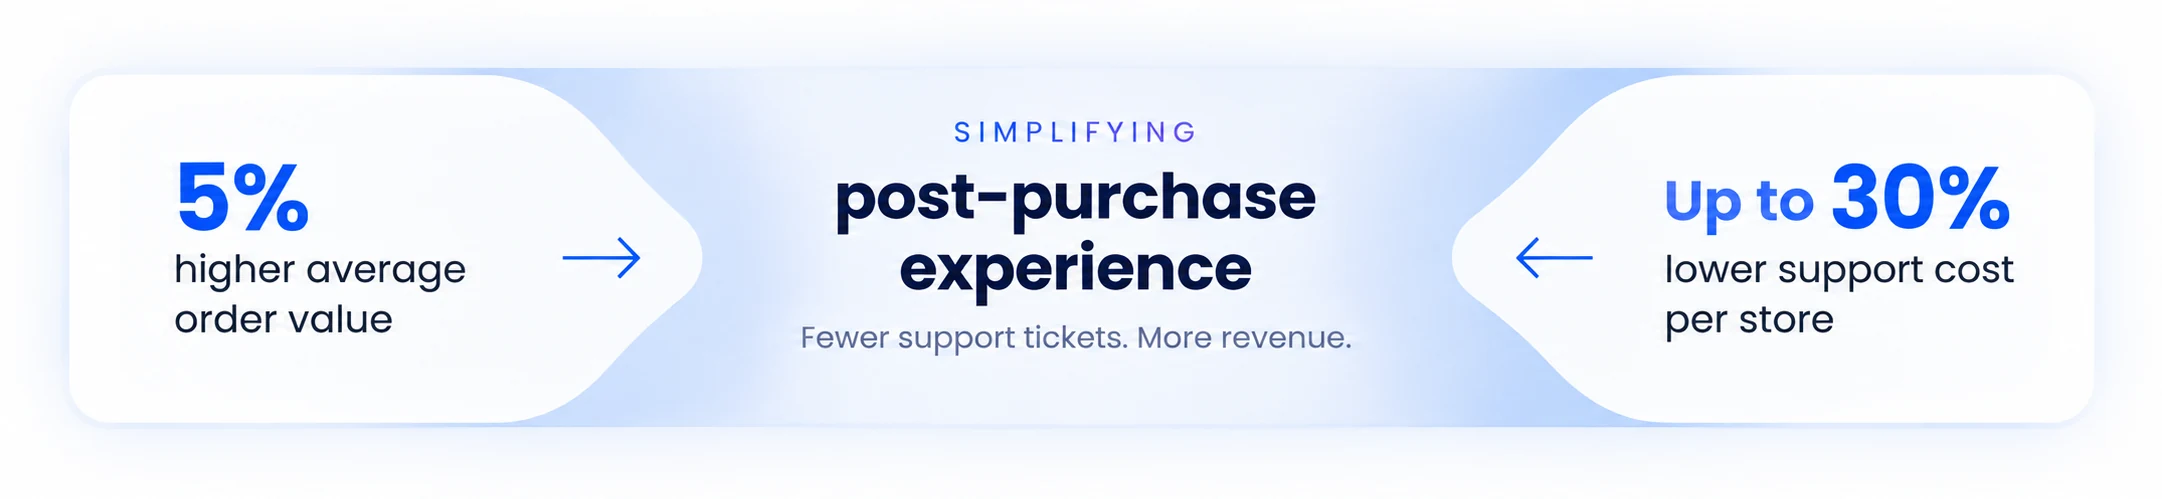
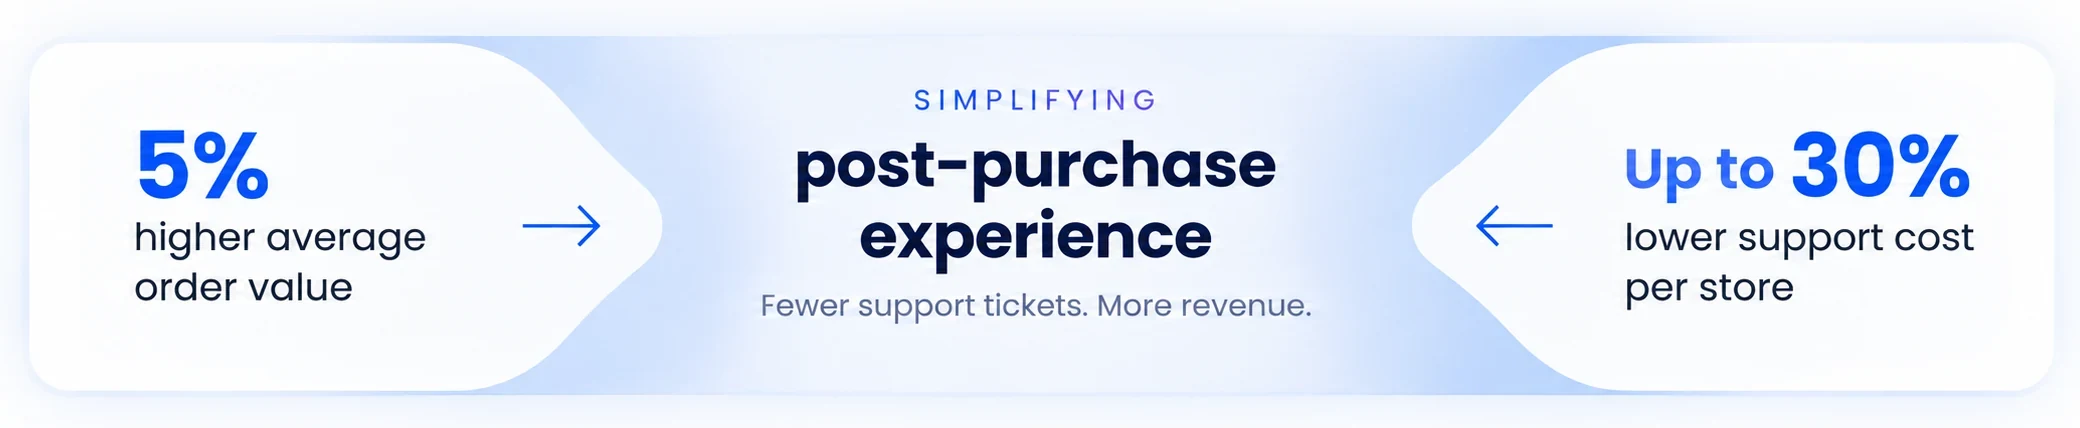
The band extends to the edges
Cropped to the card's own edges rather than to the white around it: x
40..2119 and y 32..459 of the 2162x499 working file, giving 2080x428, or
4.86:1. So 1440 paints 296 against the 332 it was, and the card's edges
meet the viewport instead of floating in white.

The type keeps its air. The card carries 136px of internal padding - the
first strong ink, the "5%", is at x=176 against an edge at 40 - which is
94px once scaled to 1440. My previous attempt cropped at 175, which threw
all of that away and put "5%" against the viewport edge with "lower
support cost per store" running off the right. That is what "WHAT" was
about, and it is reverted.

The rounded corners leave white outside the curve at the four corners.
Both ends of the card are white and so is the section, so there is nothing
to see.

Both sweeps clean.

diff --git a/index.html b/index.html
@@ -643,8 +643,10 @@
      the wedge by absolute position. The hairlines run to the page edge
      and stop at the wedge, which is what gives the two panels their
      width without a border. */
-  /* height comes from the art now, not a number: it is 4.333:1, so 1440
-     paints 332 where the built band was 330 */
+  /* Height comes from the art, not a number. Cropped to the card's own
+     edges - x 40..2119 of the 2162 working file, where the first ink is
+     not until 176 - it is 4.86:1, so 1440 paints 296 and the type keeps
+     94px of air at each end. */
   .cp-ob { position: relative; width: 1440px; background: #ffffff;
            overflow: hidden; }
   .cp-ob__art { display: block; width: 1440px; max-width: 100%;
@@ -1837,7 +1839,7 @@
 
   <!-- ── Outcome band ───────────────────── -->
   <section class="cp-ob" data-screen-label="Outcome band">
-    <img class="cp-ob__art" src="assets/outcome-band.webp" srcset="assets/outcome-band.webp 1440w, assets/outcome-band@2x.webp 2162w" sizes="1440px" alt="Simplifying post-purchase experience. Fewer support tickets. More revenue. 5% higher average order value, and up to 30% lower support cost per store." width="1440" height="332" loading="lazy">
+    <img class="cp-ob__art" src="assets/outcome-band.webp" srcset="assets/outcome-band.webp 1440w, assets/outcome-band@2x.webp 2080w" sizes="1440px" alt="Simplifying post-purchase experience. Fewer support tickets. More revenue. 5% higher average order value, and up to 30% lower support cost per store." width="1440" height="296" loading="lazy">
     <svg class="cp-ob__shape" width="1440" height="330" viewBox="0 0 1440 330" fill="none" aria-hidden="true" focusable="false">
       <defs>
         <linearGradient id="cp-ob-g" x1="0" y1="0" x2="1440" y2="0" gradientUnits="userSpaceOnUse">
